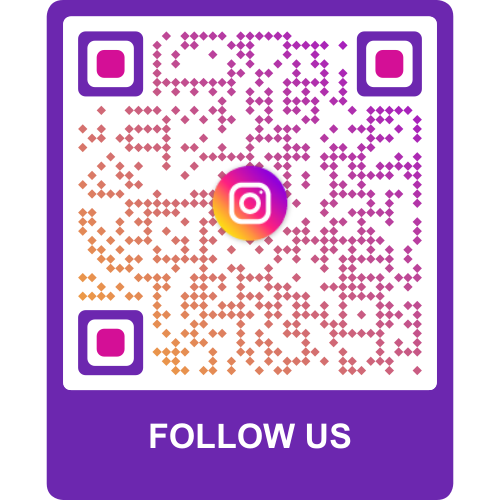
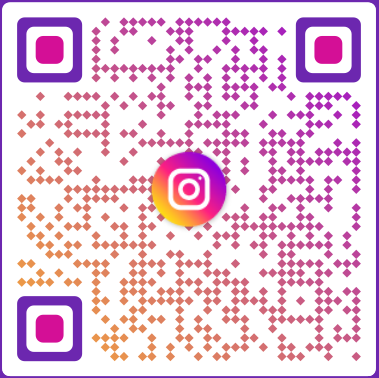
Modif QR code

diff --git a/Le site.html b/Le site.html
@@ -1096,16 +1096,14 @@
         </p>
         
         <!-- QR Codes Compacts -->
-        <div style="display: flex; gap: 55px; align-items: center; margin-bottom: 15px; justify-content: flex-start;">
-            <div style="text-align: center;">
-                <p style="margin-bottom: 2px; font-weight: bold; font-size: 13px; color: #1877F2; font-family: 'Montserrat', sans-serif; text-shadow: 0 1px 2px rgba(0,0,0,0.1);">Facebook</p>
-                <img src="qr code/qr code facebook.png" alt="QR Code Facebook" style="width: 105px; height: 105px; border-radius: 6px; object-fit: cover;">
+        <div style="display: flex; gap: 90px; align-items: flex-start; margin-bottom: 15px; justify-content: flex-start;">
+            <div style="text-align: center; display: flex; flex-direction: column; align-items: center;">
+                <p style="margin: 0 0 -5px 0; line-height: 1; font-weight: 800; font-size: 15px; background: linear-gradient(45deg, #0866FF 0%, #00C6FF 100%); -webkit-background-clip: text; background-clip: text; -webkit-text-fill-color: transparent; font-family: 'Montserrat', sans-serif;">Facebook</p>
+                <img src="qr code/qr code facebook.png" alt="QR Code Facebook" style="width: 105px; height: 105px; border-radius: 8px; object-fit: cover;">
             </div>
-            <div style="text-align: center;">
-                <p style="margin-bottom: 2px; font-weight: bold; font-size: 13px; color: #E4405F; font-family: 'Montserrat', sans-serif; text-shadow: 0 1px 2px rgba(0,0,0,0.1);">Instagram</p>
-                <div style="width: 105px; height: 105px; overflow: hidden; border-radius: 6px; position: relative; margin: 0 auto; background: white;">
-                    <img src="qr code/qr code instagram.png" alt="QR Code Instagram" style="position: absolute; width: 175px; height: auto; max-width: none; top: -23px; left: 50%; transform: translateX(-50%);">
-                </div>
+            <div style="text-align: center; display: flex; flex-direction: column; align-items: center;">
+                <p style="margin: 0 0 -5px 0; line-height: 1; font-weight: 800; font-size: 15px; background: linear-gradient(45deg, #f09433 0%, #e6683c 25%, #dc2743 50%, #cc2366 75%, #bc1888 100%); -webkit-background-clip: text; background-clip: text; -webkit-text-fill-color: transparent; font-family: 'Montserrat', sans-serif;">Instagram</p>
+                <img src="qr code/qr code instagram.png" alt="QR Code Instagram" style="width: 105px; height: 105px; border-radius: 8px; object-fit: cover;">
             </div>
         </div>
         
